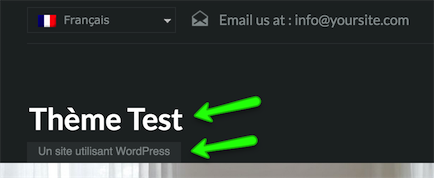
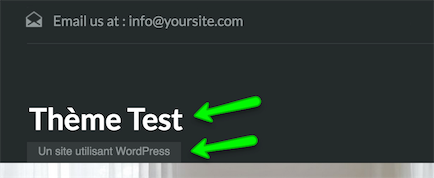
Updated multiple “WPML” related sections.

Changed region(s): [[0.0599, 0.0562, 0.9585, 0.1685], [0.4493, 0.5337, 0.5991, 0.6742], [0.4493, 0.7584, 0.5991, 0.8989]]

diff --git a/docs/wpml-home-news-page.md b/docs/wpml-home-news-page.md
@@ -12,11 +12,12 @@
 
 4. Now you can go to the **Home** page on front end ( visit the site ) and choose the translated home page's language from language switcher in header top bar and you will see that page will refresh and URL will be changed to your newly translated homepage. 
 !!! note
-    If you are not able to view language switcher then make sure to enable the setting in **Dashboard → Appearance > Customize → Header → Others** section as displayed in screen shot below.
+    If you are not able to view language switcher then make sure to enable the setting in **Dashboard → Appearance → Customize Settings → Floating Features** panel and look for the **WPML Language Switcher** section (appears only when WPML plugin is activated) as displayed in the screenshots below.
 
-    <br>![Real Homes Documentation](images/wpml/display-wpml-language-switcher.png)
+    <br>![Real Homes Documentation](images/wpml/wpml-language-switcher-section.png)
+    ![Real Homes Documentation](images/wpml/wpml-language-switcher-settings.png)
 
-5. Do not worry about lots of un-translated things in header, footer and content area. You will learn to translate those one by one.
+Do not worry about lots of un-translated things in header, footer and content area. You will learn to translate those one by one.
 
 ### **Duplicate News Page for Other Language**
 

diff --git a/docs/wpml-property-search-page.md b/docs/wpml-property-search-page.md
@@ -19,6 +19,13 @@ Before setting up **Property Search page** please make sure that the **Language 
 5. **Publish** the page once ready.
 
 6. **Note:** For English Property Search page we have already configured the URL in appropriate settings section. Now, We need to translate that URL value so that search form on our other language pass the parameters to translated search page. 
-![Real Homes Documentation](images/wpml/select-property-search-page.png)
+
+**Classic**
+
+![Search Page Settings Classic](images/home-setup/search-page-settings-full.png)
+
+**Modern**
+
+![Search Page Settings Modern](images/home-setup/search-page-settings-full-mod.png)
 
 7. **Property Search page** is translated and ready to be used.
